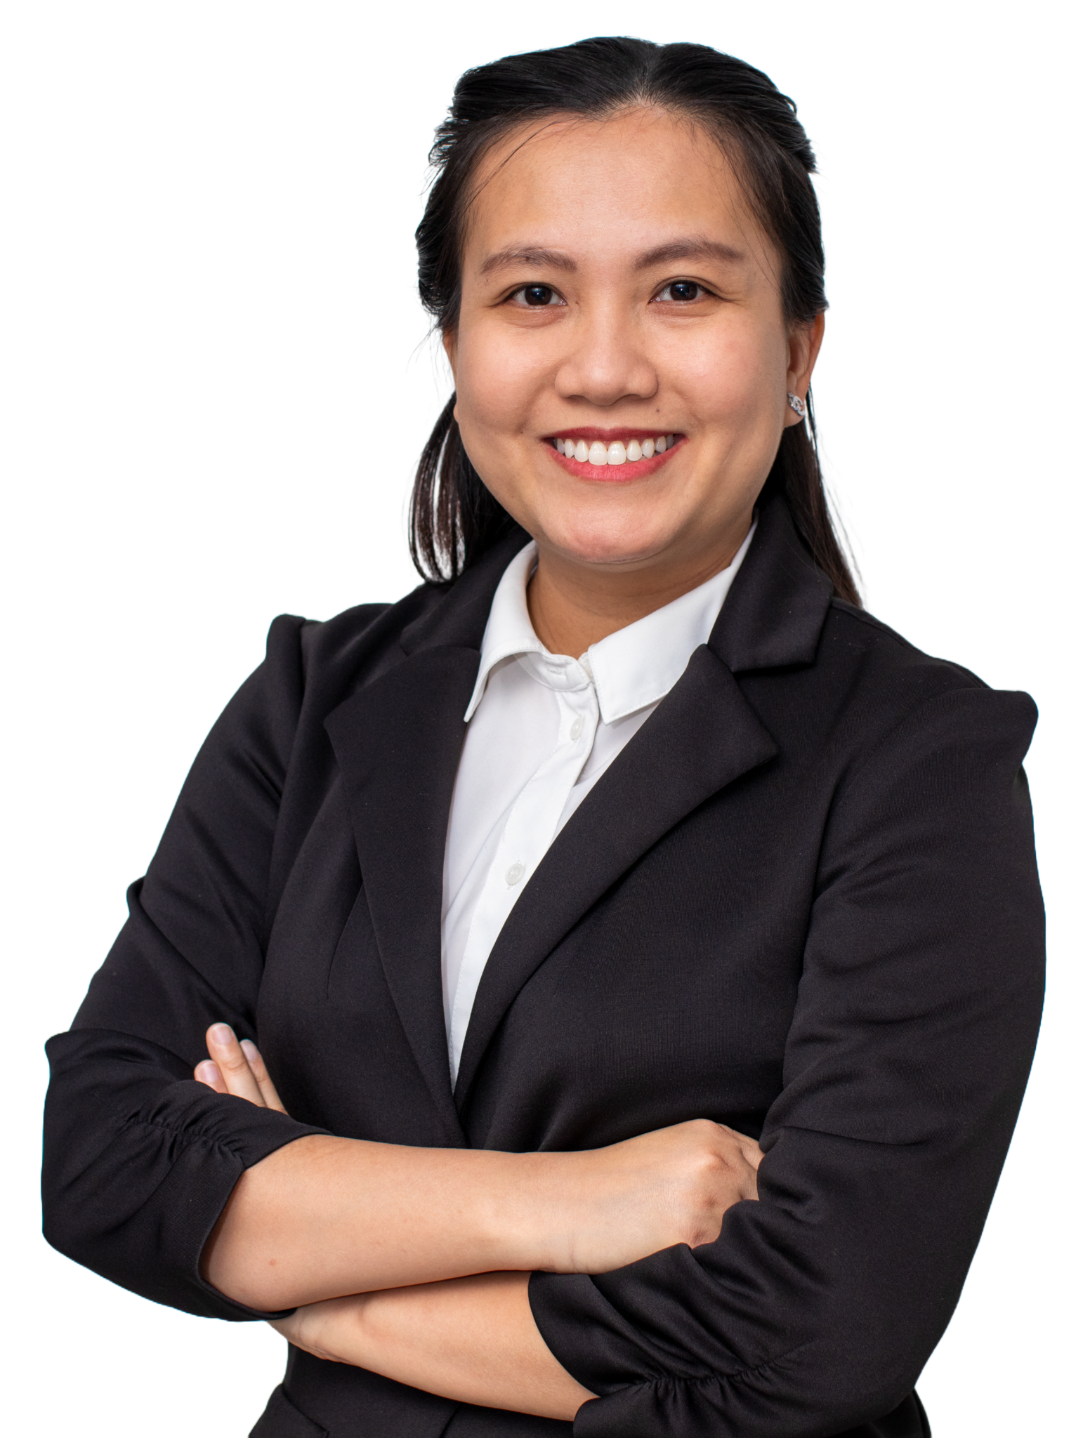
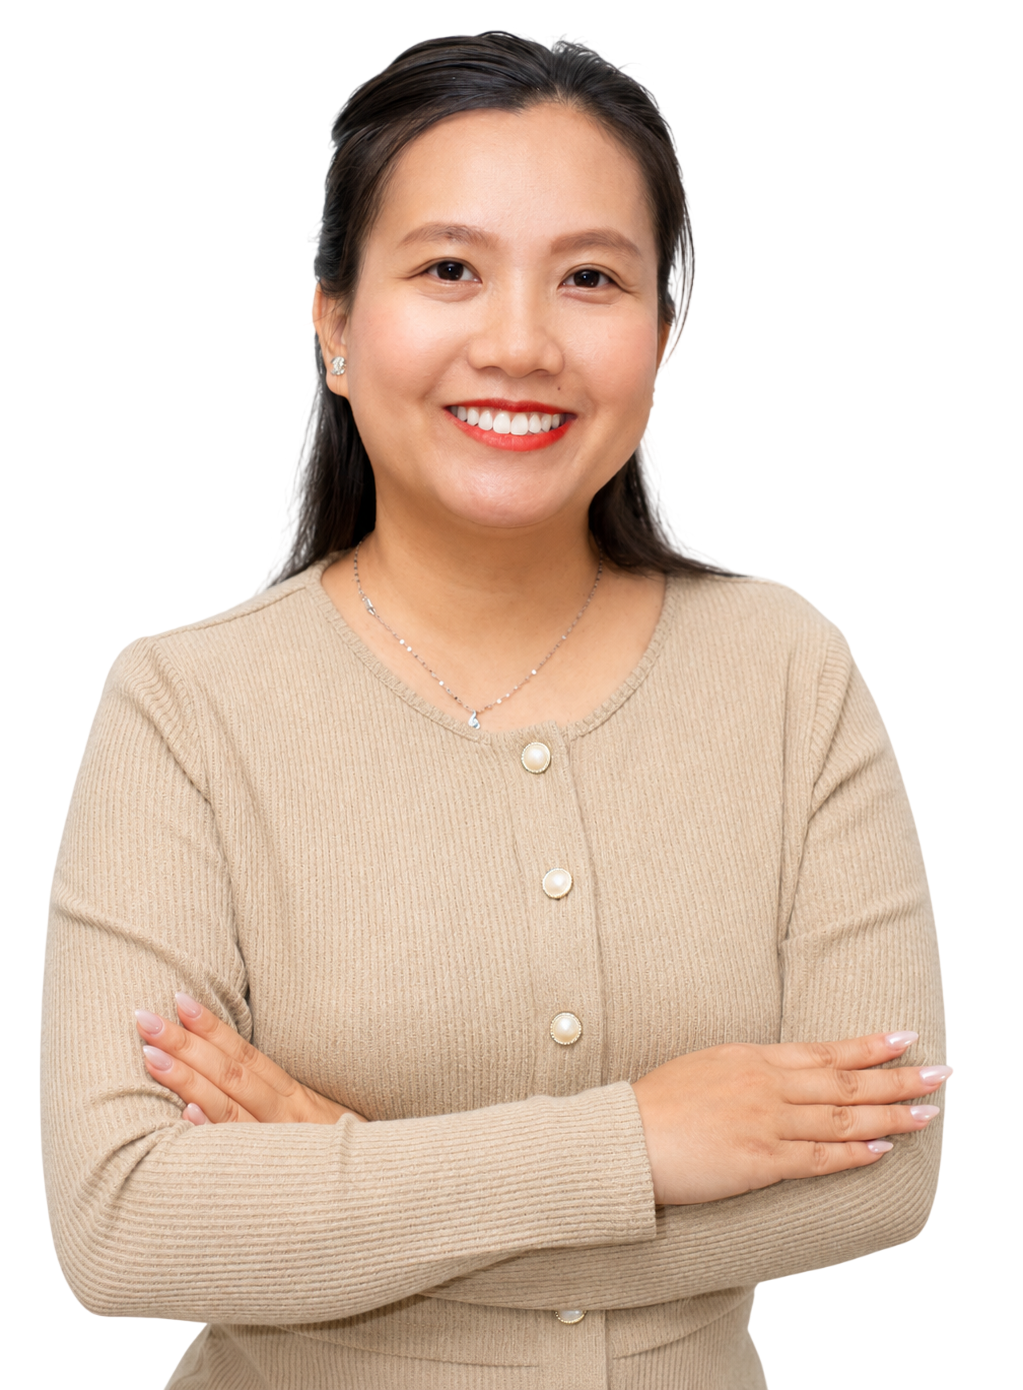
Replaced images and add scrolling function

diff --git a/src/pages/Home/Pricing.tsx b/src/pages/Home/Pricing.tsx
@@ -5,6 +5,7 @@ import { setCurrentEntity } from '../../store/slice/displaySlice';
 import Card from '../../ui/components/Card';
 import Icon from '../../ui/components/Icon';
 import { useInView } from 'react-intersection-observer';
+import { scrollToWithBezier } from '../../utils/Scroll';
 
 const Pricing = () => {
 	const [isExiting, setisExiting] = useState(false);
@@ -33,6 +34,17 @@ const Pricing = () => {
 		} else {
 			dispatch(setCurrentEntity(entity));
 		}
+	};
+
+	const scrollTo = (href: string) => {
+		const el = document.querySelector(href);
+		if (el)
+			scrollToWithBezier(
+				window,
+				el ? el.getBoundingClientRect().top + window.scrollY : 0,
+				500,
+				[1, -0.078, 0.419, -0.21],
+			);
 	};
 
 	return (
@@ -88,7 +100,7 @@ const Pricing = () => {
 							{price.popular && (
 								<div className="pricing__cards__card__popular-label">
 									<Icon name="sparkles" size="small" />
-									<p>Most Popular</p>
+									<p>{language === 'vn' ? 'Phổ biến nhất' : 'Most Popular'}</p>
 								</div>
 							)}
 							<div className="pricing__cards__card__header">
@@ -109,14 +121,18 @@ const Pricing = () => {
 								`}</p>
 							</div>
 							<div className="pricing__cards__card__cta">
-								<button>
-									<span>Get Started</span>
+								<button onClick={() => scrollTo('#contact')}>
+									<span>{language === 'vn' ? 'Bắt đầu' : 'Get Started'}</span>
 									<Icon name="arrow-right" size="small" />
 								</button>
 							</div>
 							<br />
 							<div className="pricing__cards__card__includes">
-								<h4>WHAT'S INCLUDED:</h4>
+								<h4>
+									{language === 'vn'
+										? 'NHỮNG ĐIỀU ĐƯỢC BAO GỒM:'
+										: "WHAT'S INCLUDED:"}
+								</h4>
 							</div>
 							<ul className="pricing__cards__card__includes__list">
 								{price.includes?.map((item, index) => (
@@ -131,7 +147,7 @@ const Pricing = () => {
 			</div>
 			<div className="pricing__additional">
 				<h5>{data.pricing.additional_info.question}</h5>
-				<button>
+				<button onClick={() => scrollTo('#contact')}>
 					<Icon name="comment" size="small" />
 					<span>{data.pricing.additional_info.cta}</span>
 				</button>

diff --git a/src/pages/Home/About.tsx b/src/pages/Home/About.tsx
@@ -25,9 +25,7 @@ const About = () => {
 			</div>
 			<div className="about__container">
 				<div className="about__container__left">
-					<span className="about__container__left__name">
-						{aboutData.ivy.name}
-					</span>
+					<span className="about__container__left__name"></span>
 					<img src={IVYTRUONG} alt={aboutData.ivy.name} />
 					<div className="about__container__left__info">
 						<div className="about__container__left__info__title">
@@ -43,9 +41,7 @@ const About = () => {
 					</div>
 				</div>
 				<div className="about__container__right">
-					<span className="about__container__right__name">
-						{aboutData.tony.name}
-					</span>
+					<span className="about__container__right__name"></span>
 					<img src={TONYHOANG} alt={aboutData.tony.name} />
 					<div className="about__container__right__info">
 						<div className="about__container__right__info__title">

diff --git a/src/data/index.ts b/src/data/index.ts
@@ -277,6 +277,12 @@ const pageData = {
 						amount: 500,
 						unit: 'khai báo thuế',
 					},
+					includes: [
+						'1 tờ khai thuế cá nhân (1040)',
+						'Nhiều nguồn thu nhập (W-2, 1099, v.v.)',
+						'Khấu trừ chi tiết',
+						'Mẫu bổ sung',
+					],
 					description:
 						'Dịch vụ chuẩn bị thuế cá nhân toàn diện cho các tình huống thuế phức tạp, bao gồm nhiều nguồn thu nhập, đầu tư và khấu trừ rộng rãi.',
 				},